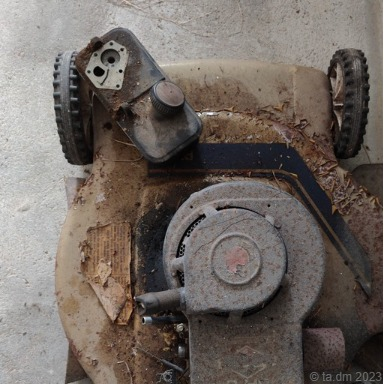
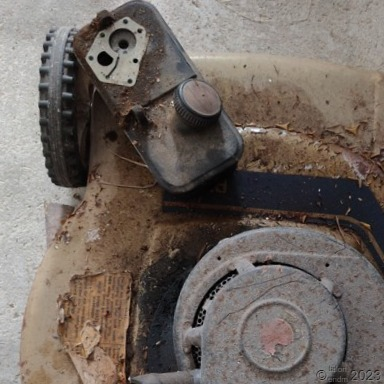
thumbnail editor3

diff --git a/_posts/2023-04-07-thumbnail-editor.md b/_posts/2023-04-07-thumbnail-editor.md
@@ -41,7 +41,8 @@ window.addEventListener('keydown', function(e) {
 let input;
 let img;
 var tiedostonimi = "";
-var z = 0.7;
+var z0 = 0.7; // 0.7;
+var z;
 var x = 0;
 var y = 0;
 var a = 0;
@@ -50,6 +51,12 @@ let ih = 384;
 var nayta = true;
 var tallenna = false;
 
+// copy
+// var copyteksti = "\u00A9 ta.dm 2023";
+var copyteksti = "\u00A9      2023";
+var copyteksti2 = "talon\nendm" 
+var copysize = 14;
+var infotekstisize = 16;
 
 // called once
 function setup() {
@@ -59,7 +66,7 @@ function setup() {
   canvas.parent('sketch-holder-jt-xml')
   input = createFileInput(handleFile);
   input.position(0, ih + 200);
-
+  z = z0;
   // const canvas = createCanvas(windowWidth*0.7, 400);
   // canvas.parent('sketch-holder-jt-xml')
   
@@ -80,26 +87,36 @@ function draw() {
   pop();
   
   
+  
+  textSize(copysize);
   textAlign(RIGHT,BOTTOM);
   fill(30);
-  text("\u00A9 ta.dm 2023", iw-1-2,ih-1);
+  text(copyteksti, iw-1-2,ih-1);
   fill(150,150);
-  text("\u00A9 ta.dm 2023", iw-2,ih);
+  text(copyteksti, iw-2,ih);
+  
+  textSize(copysize/2+1);
+  textAlign(CENTER,BOTTOM);
+  fill(30);
+  text(copyteksti2, iw-1-2-44,ih-1);
+  fill(150,150);
+  text(copyteksti2, iw-2-44,ih);
   
   if (nayta & tiedostonimi != "" & !tallenna) {
     textAlign(LEFT,TOP);
     fill(50,150);
+    textSize(infotekstisize);
     
     let le = round(img.width*z);
     let ko = round(img.height*z);
-    text(x + "," + y + ":(" + le + "," + ko +")", 0, 0);
+    text(x + "," + y + ":(" + le + "," + ko +") zoom: " + round(z*100) + "%", 0, 0);
     
     if (iw>le+x | ih>ko+y | x>0 | y>0) {
       fill(255,0,0);
     } else {
       fill(0,255,0);
     }
-    text(x + "," + y + ":(" + le + "," + ko +")", 1, 1);
+    text(x + "," + y + ":(" + le + "," + ko +") zoom: " + round(z*100) + "%", 1, 1);
   }
 
   if (tallenna) {
@@ -114,7 +131,7 @@ function handleFile(file) {
   print(tiedostonimi);
   x = 0;
   y = 0;
-  z = 1;
+  z = z0;
   a = 0;
   if (file.type === 'image') {
     img = createImg(file.data, '');
